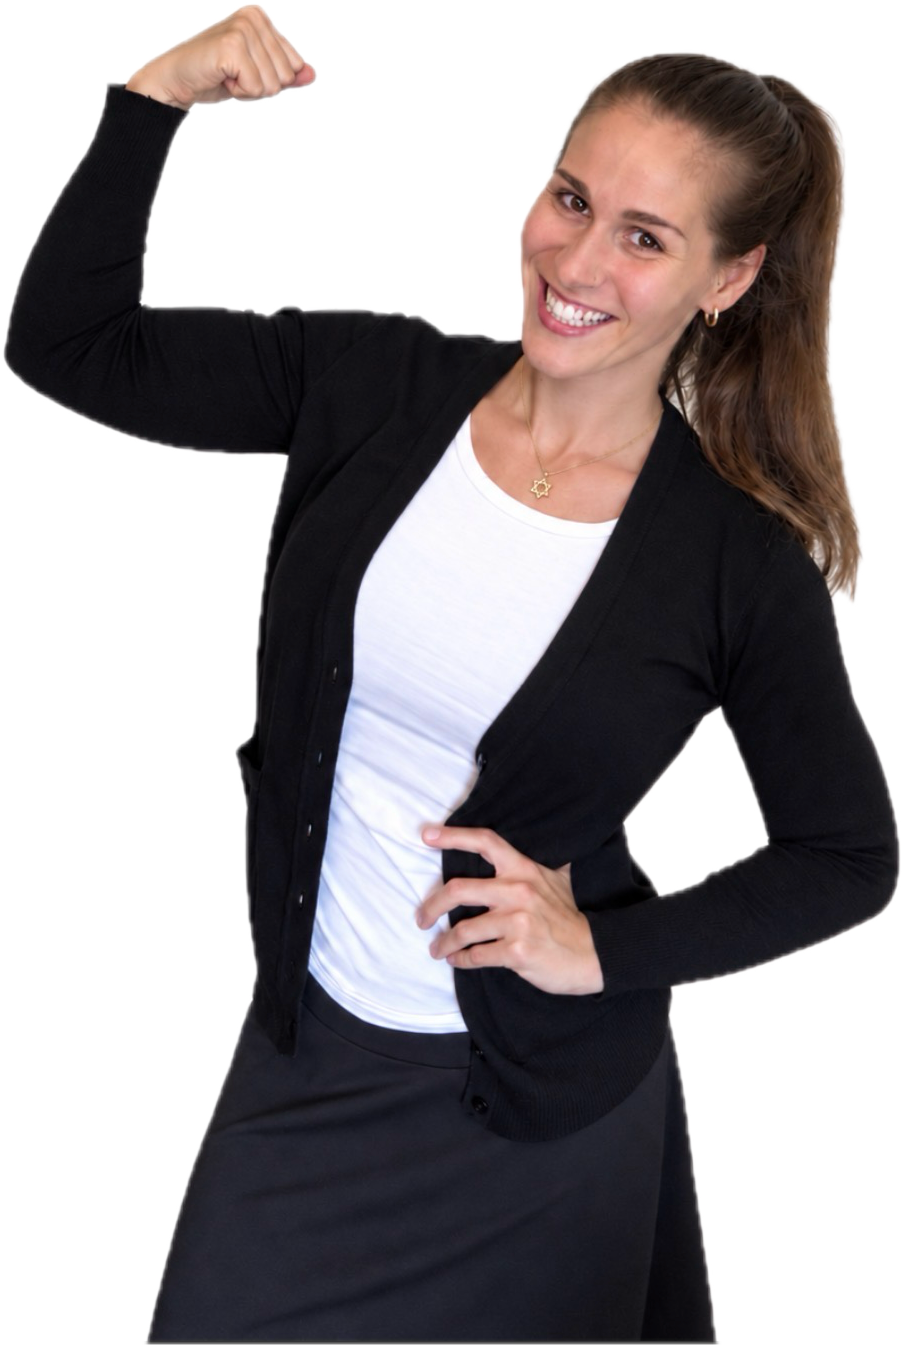
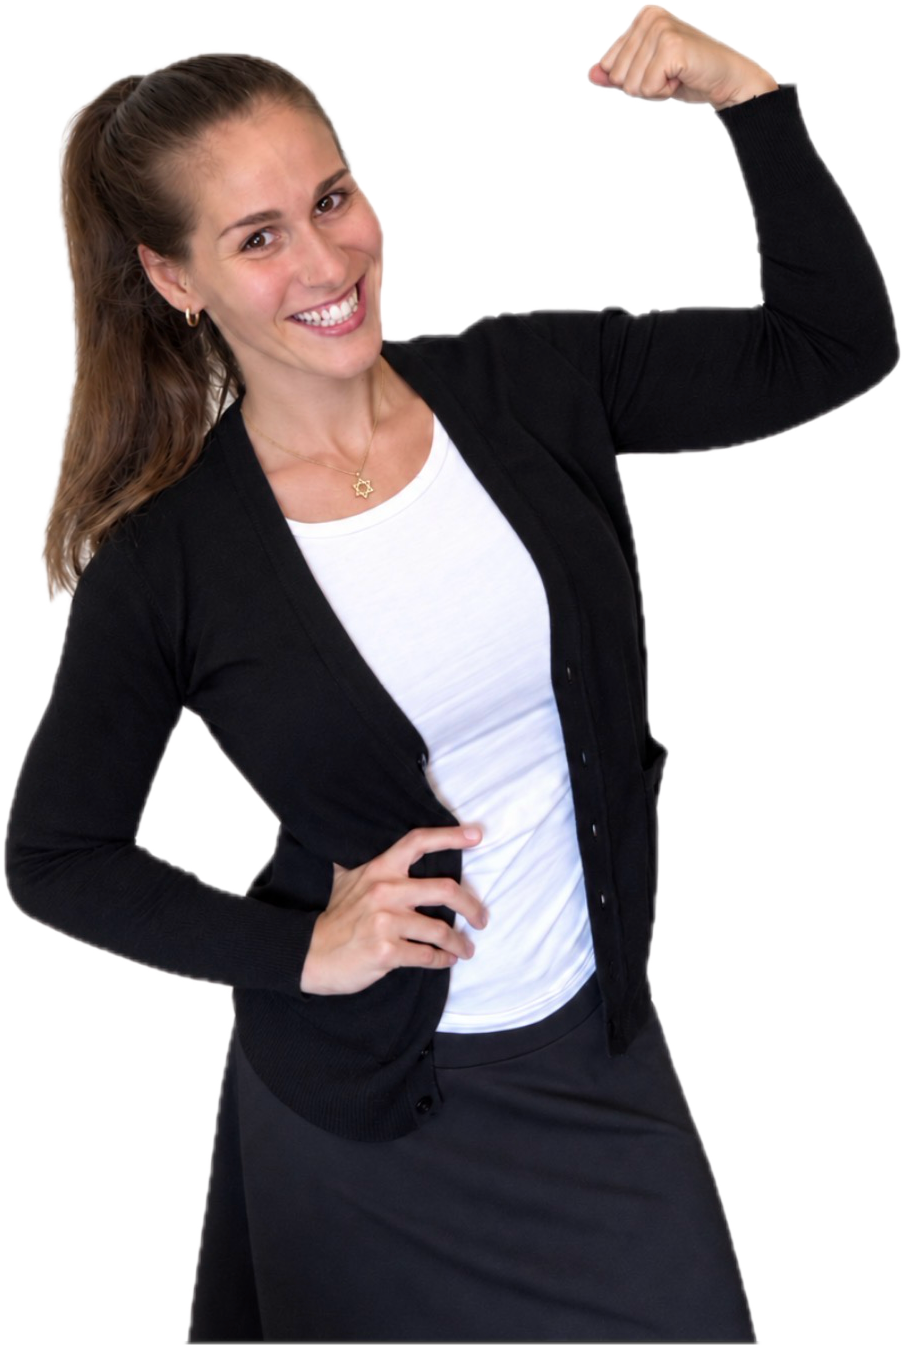
Nikki polish: face right (mirror), zoom matched to Eva, lighter disc, pinker cool palette (#e14b8a), refreshed hero+OG

diff --git a/style.css b/style.css
@@ -1,10 +1,10 @@
 :root {
-  --c-cyan: #d1668f;
-  --c-cyan-light: #f6d3e2;
-  --c-mauve: #d1668f;
+  --c-cyan: #e14b8a;
+  --c-cyan-light: #f9c9df;
+  --c-mauve: #e14b8a;
   --c-gray-mid: #817f82;
   --c-gray-light: #a2abb5;
-  --c-bg: #faf9f6;
+  --c-bg: #fdf5fb;
   --c-fg: #1f1f22;
   --c-muted: #6c6c70;
   --font-serif: 'Fraunces', Georgia, serif;
@@ -24,7 +24,7 @@ body {
   font-size: 17px;
   line-height: 1.6;
   color: var(--c-fg);
-  background: radial-gradient(1100px 560px at 50% 90px, #fbe3ee, var(--c-bg) 68%) no-repeat var(--c-bg);
+  background: radial-gradient(1100px 560px at 50% 90px, #fbd7ec, var(--c-bg) 68%) no-repeat var(--c-bg);
   -webkit-font-smoothing: antialiased;
   text-rendering: optimizeLegibility;
 }
@@ -32,7 +32,7 @@ body {
    gentle ambient top-wash so desktop doesn't read as busy. */
 @media (min-width: 768px) {
   body {
-    background: radial-gradient(1700px 780px at 50% -200px, #fdeef5, var(--c-bg) 58%) no-repeat var(--c-bg);
+    background: radial-gradient(1700px 780px at 50% -200px, #fce4f2, var(--c-bg) 58%) no-repeat var(--c-bg);
   }
 }
 
@@ -88,7 +88,7 @@ body {
   border-radius: 50%;
   display: block;
   margin: 0 auto 1.5rem;
-  box-shadow: 0 6px 24px rgba(209, 102, 143, 0.18);
+  box-shadow: 0 6px 24px rgba(225, 75, 138, 0.18);
 }
 .nav-links {
   display: flex;
@@ -185,7 +185,7 @@ body {
   background: var(--c-cyan);
   color: #fff;
 }
-.btn-primary:hover { background: #bd5a80; }
+.btn-primary:hover { background: #c93d77; }
 .btn-secondary {
   background: transparent;
   color: var(--c-fg);
@@ -197,10 +197,10 @@ body {
   font-size: 1.02rem;
 }
 .btn-hero.btn-primary {
-  box-shadow: 0 8px 22px rgba(209, 102, 143, 0.26);
+  box-shadow: 0 8px 22px rgba(225, 75, 138, 0.26);
 }
 .btn-hero.btn-primary:hover {
-  box-shadow: 0 10px 26px rgba(209, 102, 143, 0.32);
+  box-shadow: 0 10px 26px rgba(225, 75, 138, 0.32);
   transform: translateY(-1px);
 }
 .hero-cta-note {
@@ -346,7 +346,7 @@ form input, form textarea, form select {
 form input:focus, form textarea:focus, form select:focus {
   outline: none;
   border-color: var(--c-cyan);
-  box-shadow: 0 0 0 3px rgba(209, 102, 143, 0.3);
+  box-shadow: 0 0 0 3px rgba(225, 75, 138, 0.3);
 }
 form input:user-invalid, form textarea:user-invalid,
 form input[aria-invalid="true"], form textarea[aria-invalid="true"] {

diff --git a/index.html b/index.html
@@ -22,7 +22,7 @@
   <meta name="twitter:description" content="A private women's training studio in Teaneck, NJ. 1-on-1 training, small-group classes, nutrition, and in-home training with Nikki.">
   <meta name="twitter:image" content="https://nik.fit/og-image.jpg">
 
-  <meta name="theme-color" content="#d1668f">
+  <meta name="theme-color" content="#e14b8a">
   <link rel="icon" href="favicon.svg" type="image/svg+xml">
 
   <link rel="preconnect" href="https://fonts.googleapis.com">

diff --git a/schedule.html b/schedule.html
@@ -7,7 +7,7 @@
   <meta name="robots" content="noindex">
   <meta http-equiv="refresh" content="0; url=/">
   <link rel="canonical" href="https://nik.fit/">
-  <meta name="theme-color" content="#d1668f">
+  <meta name="theme-color" content="#e14b8a">
   <link rel="icon" href="favicon.svg" type="image/svg+xml">
 </head>
 <body><p>This page has moved. <a href="/">Continue to Nikfit →</a></p></body>
